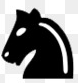
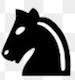
#2 | resizing pieces to fit in blocks

diff --git a/src/styles.css b/src/styles.css
@@ -11,4 +11,10 @@
 img {
     max-height: 100%;
     max-width: 100%;
+    margin-left: auto;
+	margin-right: auto;
+    display: block;
+    padding-top: 5px;
+    padding-bottom: 5px;
+    height: 70px;
 }
